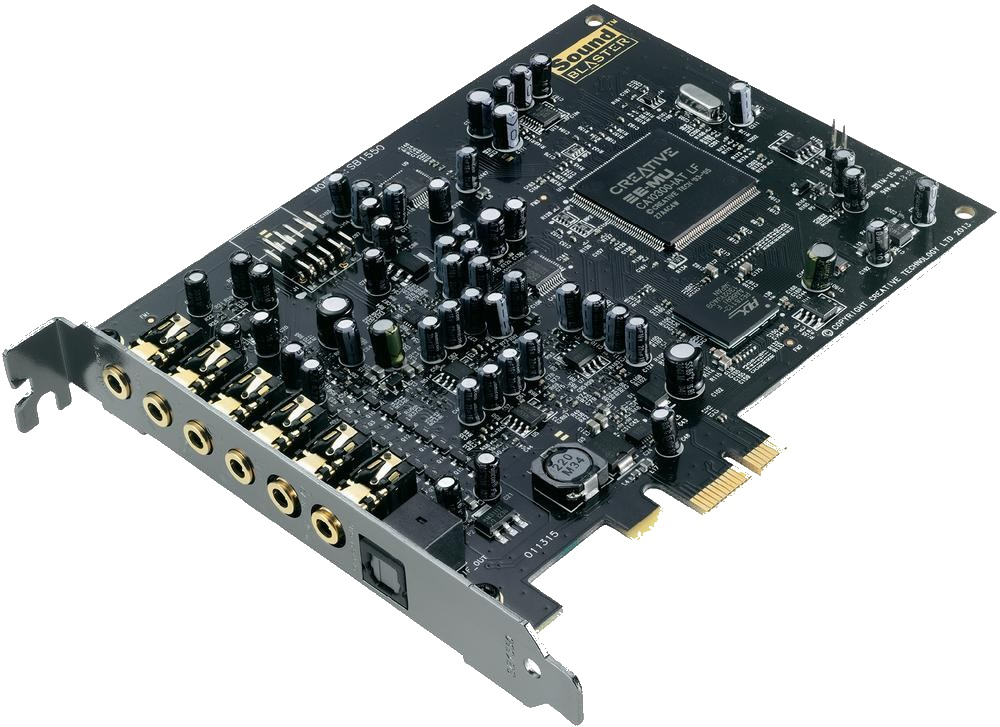
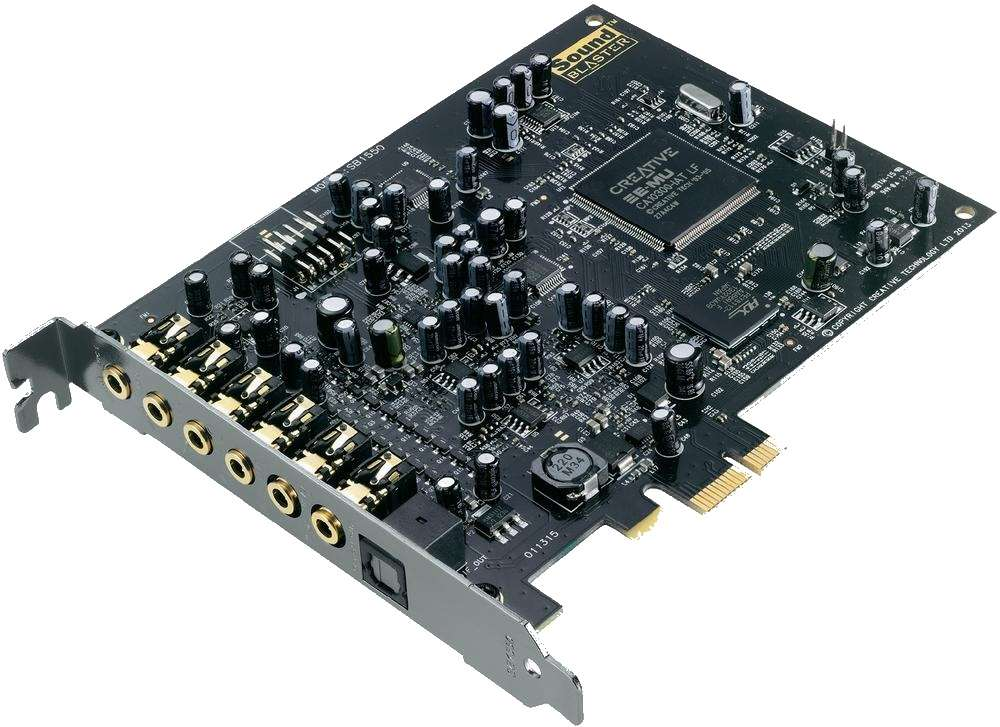
afbeeldingen geoptimaliseerd naar < 100kb

Changed region(s): [[0.558, 0.0303, 0.62, 0.0908], [0.558, 0.5144, 0.589, 0.5447]]

diff --git a/stylesheet.css b/stylesheet.css
@@ -424,7 +424,6 @@ body {
 }
 .form-group {
 	display:flex;
-	/*flex-direction:column;*/
 }
 
 .form-group label {
@@ -436,7 +435,7 @@ body {
 	border:1px solid black;
 	margin:10px 10px 10px 50px;
 	width:225px;
-	resize:vertical;
+	resize: none;
 	max-height: 400px;
 }
 
